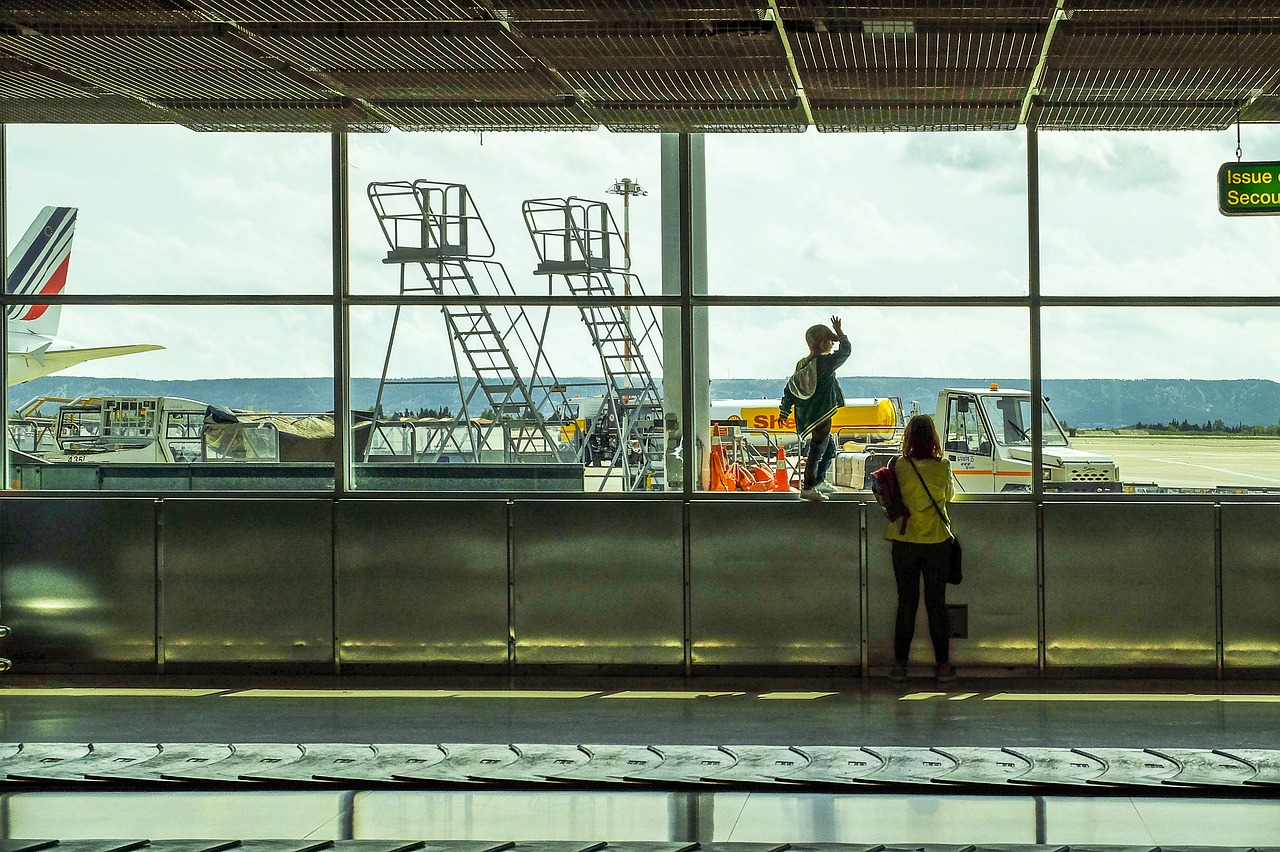
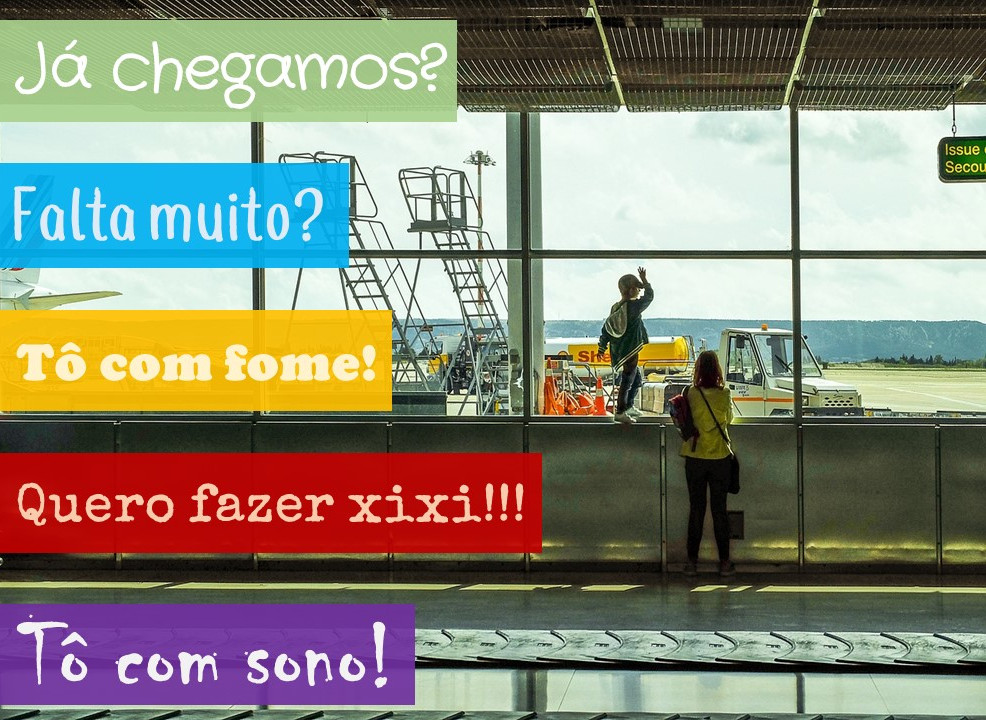
Ajuste na imagem do post

diff --git a/_posts/2020-02-20-viagem01.md b/_posts/2020-02-20-viagem01.md
@@ -4,7 +4,7 @@ title:  "Viajando com as crianças!"
 description: "Fazer uma viagem longa com criança pode ser um grande desafio, mas com planejamento e paciência, tudo (até) pode dar certo!"
 author: Naira
 categories: [ Viagem ]
-image: assets/images/posts2020/thumb.jpg
+image: assets/images/posts2020/2020-02-20-viagem.jpg
 tags: [Viagem]
 ---
 <style>
